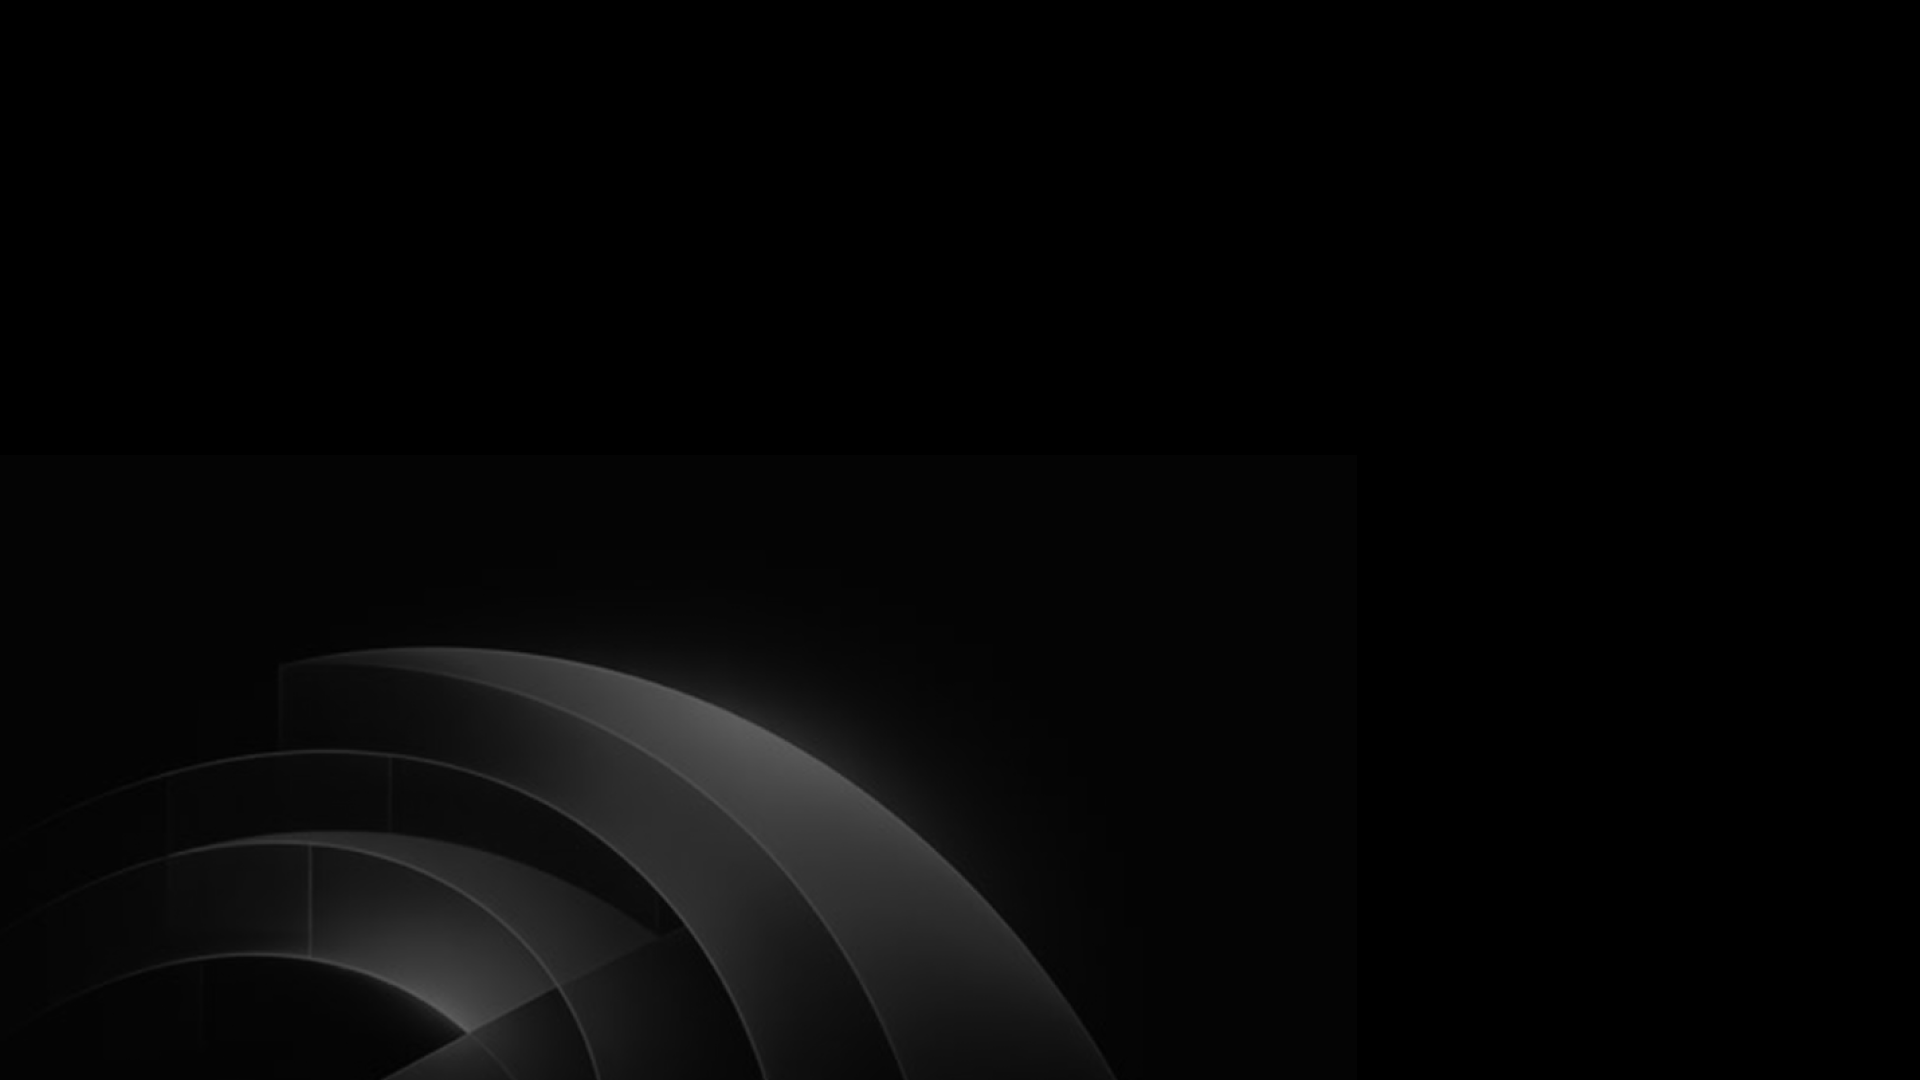
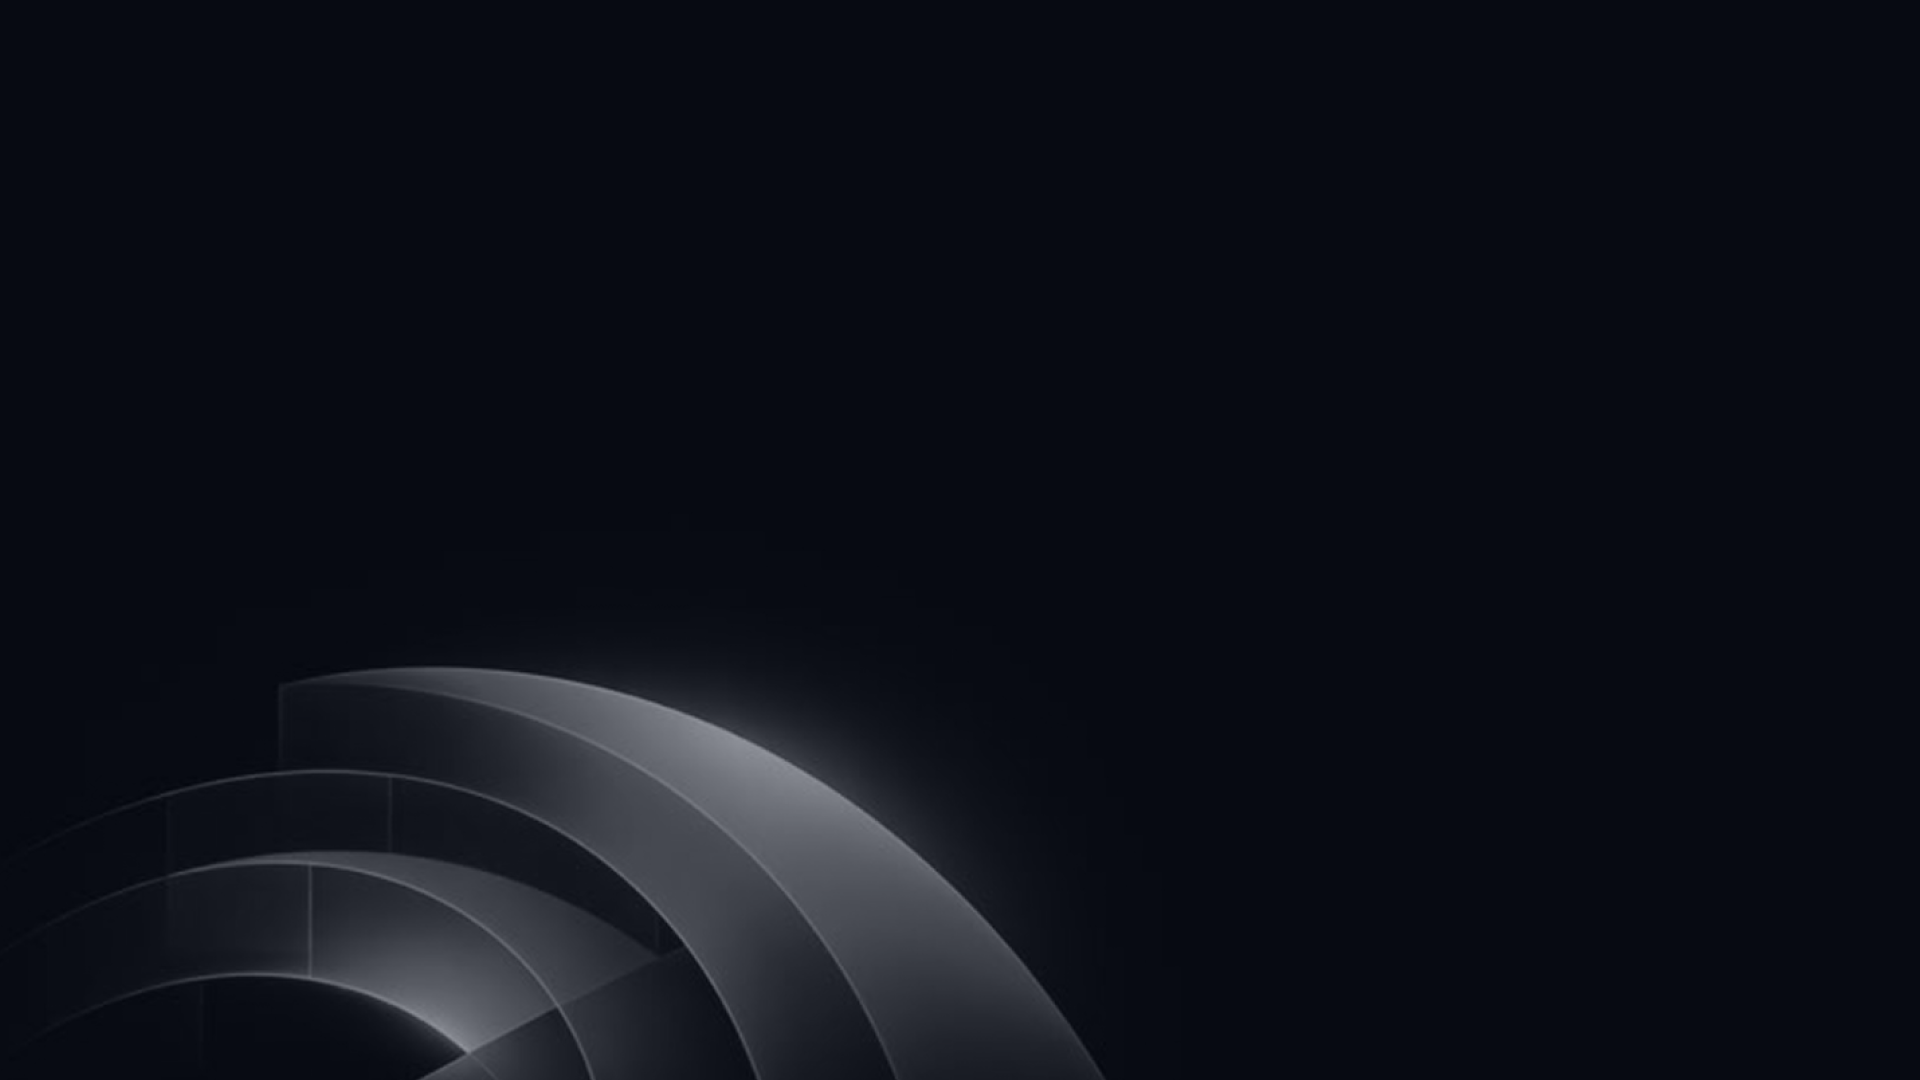
Replace footer bg with darker version, remove overlay

Changed region(s): [[0.0625, 0.5806, 0.5938, 1.0], [0.0625, 0.7333, 0.0938, 0.7639]]

diff --git a/src/components/layout/Footer.tsx b/src/components/layout/Footer.tsx
@@ -6,8 +6,6 @@ export default function Footer() {
       className="relative border-t border-border mt-24"
       style={{ backgroundImage: 'url(/images/footer-bg.png)', backgroundSize: 'cover', backgroundPosition: 'bottom left' }}
     >
-      {/* Dark overlay to match site tone */}
-      <div className="absolute inset-0 bg-black/70 z-0" />
       <div className="relative z-10 max-w-4xl mx-auto px-6 py-16 flex flex-col md:flex-row items-start md:items-center justify-between gap-8">
         <div className="flex flex-col gap-4 max-w-sm">
           <Link href="/"><img src="/logo.svg" alt="ImageSmith" className="h-7" /></Link>
